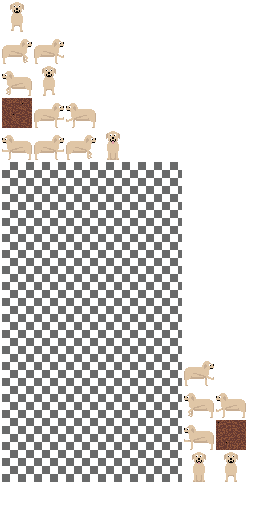
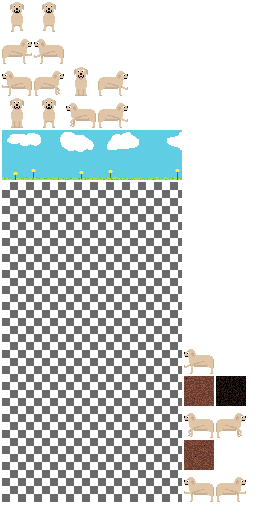
work on dig system

diff --git a/core/src/main/kotlin/io/github/rolodophone/ludumdare48/ecs/system/DigSystem.kt b/core/src/main/kotlin/io/github/rolodophone/ludumdare48/ecs/system/DigSystem.kt
@@ -1,0 +1,109 @@
+package io.github.rolodophone.ludumdare48.ecs.system
+
+import com.badlogic.ashley.core.Engine
+import com.badlogic.ashley.core.Entity
+import com.badlogic.ashley.core.EntitySystem
+import io.github.rolodophone.ludumdare48.MyTextures
+import io.github.rolodophone.ludumdare48.ecs.component.*
+import io.github.rolodophone.ludumdare48.event.GameEvent
+import io.github.rolodophone.ludumdare48.event.GameEventManager
+import io.github.rolodophone.ludumdare48.screen.TILE_WIDTH
+import io.github.rolodophone.ludumdare48.util.getNotNull
+import ktx.ashley.entity
+import ktx.ashley.with
+
+class DigSystem(private val gameEventManager: GameEventManager, private val textures: MyTextures, dog: Entity): EntitySystem() {
+	private val dogTransformComp = dog.getNotNull(TransformComponent.mapper)
+	private val dogAnimationComp = dog.getNotNull(AnimationComponent.mapper)
+	private val dogTileComp = dog.getNotNull(TileComponent.mapper)
+	private val dogComp = dog.getNotNull(DogComponent.mapper)
+
+	var gameStarted = false
+	var timeSinceStartedDigging = 0f
+
+	override fun addedToEngine(engine: Engine) {
+		val tileHighlights = MutableList(6) {
+			createTileHighlight(it, 8)
+		}
+
+		gameEventManager.listen(GameEvent.StartDigging) {
+			if (!gameStarted) {
+				dogTransformComp.rect.setPosition(
+					(dogComp.diggingX * TILE_WIDTH).toFloat(),
+					((dogComp.diggingY + 1) * TILE_WIDTH).toFloat()
+				)
+				dogTileComp.xIndex = dogComp.diggingX
+				dogTileComp.yIndex = dogComp.diggingY + 1
+			}
+
+			when (dogComp.diggingX) {
+				dogTileComp.xIndex -> { //digging down
+					dogAnimationComp.textureList = textures.dog_dig_down
+					dogAnimationComp.animIndex = 0
+					dogAnimationComp.frameDuration = 1/8f
+				}
+				dogTileComp.xIndex - 1 -> { //digging left
+					dogAnimationComp.textureList = textures.dog_dig_left
+					dogAnimationComp.animIndex = 0
+					dogAnimationComp.frameDuration = 1/12f
+				}
+				dogTileComp.xIndex + 1 -> { //digging right
+					dogAnimationComp.textureList = textures.dog_dig_right
+					dogAnimationComp.animIndex = 0
+					dogAnimationComp.frameDuration = 1/12f
+				}
+			}
+			
+			dogComp.state = DogComponent.State.DIGGING
+			timeSinceStartedDigging = 0f
+		}
+
+		gameEventManager.listen(GameEvent.FinishDigging) {
+			dogAnimationComp.textureList = textures.dog_rest
+			dogAnimationComp.animIndex = 0
+			dogAnimationComp.frameDuration = 1/4f
+
+			dogTileComp.xIndex = dogComp.diggingX
+			dogTileComp.yIndex = dogComp.diggingY
+
+
+		}
+	}
+
+	override fun update(deltaTime: Float) {
+		when (dogComp.state) {
+			DogComponent.State.DIGGING -> {
+				timeSinceStartedDigging += deltaTime
+				
+				if (timeSinceStartedDigging > dogComp.digDuration) {
+					gameEventManager.trigger(GameEvent.FinishDigging)
+				}
+			}
+			else -> {}
+		}
+	}
+
+	private fun createTileHighlight(x: Int, y: Int): Entity {
+		return engine.entity {
+			with<TransformComponent> {
+				setSizeFromTexture(textures.tile_highlight[0])
+				rect.setPosition(
+					(x * TILE_WIDTH).toFloat(),
+					(y * TILE_WIDTH).toFloat()
+				)
+				z = 10
+			}
+			with<GraphicsComponent> {
+				sprite.setRegion(textures.tile_highlight[0])
+			}
+			with<AnimationComponent> {
+				textureList = textures.tile_highlight
+				frameDuration = 1f
+			}
+			with<TileComponent> {
+				xIndex = x
+				yIndex = y
+			}
+		}
+	}
+}

diff --git a/core/src/main/kotlin/io/github/rolodophone/ludumdare48/screen/GameScreen.kt b/core/src/main/kotlin/io/github/rolodophone/ludumdare48/screen/GameScreen.kt
@@ -2,14 +2,8 @@ package io.github.rolodophone.ludumdare48.screen
 
 import com.badlogic.gdx.math.Vector2
 import io.github.rolodophone.ludumdare48.MyGame
-import io.github.rolodophone.ludumdare48.ecs.component.AnimationComponent
-import io.github.rolodophone.ludumdare48.ecs.component.GraphicsComponent
-import io.github.rolodophone.ludumdare48.ecs.component.TileComponent
-import io.github.rolodophone.ludumdare48.ecs.component.TransformComponent
-import io.github.rolodophone.ludumdare48.ecs.system.AnimationSystem
-import io.github.rolodophone.ludumdare48.ecs.system.DebugSystem
-import io.github.rolodophone.ludumdare48.ecs.system.PlayerInputSystem
-import io.github.rolodophone.ludumdare48.ecs.system.RenderSystem
+import io.github.rolodophone.ludumdare48.ecs.component.*
+import io.github.rolodophone.ludumdare48.ecs.system.*
 import io.github.rolodophone.ludumdare48.event.GameEventManager
 import ktx.ashley.entity
 import ktx.ashley.with
@@ -22,11 +16,23 @@ private const val MAX_DELTA_TIME = 1/10f
 private const val NUM_COLUMNS = 6
 private const val NUM_ROWS = 9
 
+const val TILE_WIDTH = 30
+
 class GameScreen(game: MyGame): MyScreen(game) {
 	private val gameEventManager = GameEventManager()
 
 	@Suppress("UNUSED_VARIABLE")
 	override fun show() {
+		engine.entity {
+			with<TransformComponent> {
+				setSizeFromTexture(textures.background)
+				rect.setPosition(0f, gameViewport.worldHeight - textures.background.regionHeight)
+			}
+			with<GraphicsComponent> {
+				sprite.setRegion(textures.background)
+			}
+		}
+
 		for (y in 0 until NUM_ROWS) {
 			for (x in 0 until NUM_COLUMNS) {
 				
@@ -36,8 +42,8 @@ class GameScreen(game: MyGame): MyScreen(game) {
 					with<TransformComponent> {
 						setSizeFromTexture(thisTexture)
 						rect.setPosition(
-							(x * thisTexture.regionWidth).toFloat(), 
-							(y * thisTexture.regionHeight).toFloat()
+							(x * TILE_WIDTH).toFloat(),
+							(y * TILE_WIDTH).toFloat()
 						)
 					}
 					with<GraphicsComponent> {
@@ -57,7 +63,7 @@ class GameScreen(game: MyGame): MyScreen(game) {
 		val dog = engine.entity {
 			with<TransformComponent> {
 				setSizeFromTexture(textures.dog_rest[0])
-				rect.setPosition(2f * textures.block_dirt[0].regionWidth, 9f * textures.block_dirt[0].regionHeight)
+				rect.setPosition(2f * TILE_WIDTH, 9f * TILE_WIDTH)
 			}
 			with<GraphicsComponent> {
 				sprite.setRegion(textures.dog_rest[0])
@@ -68,14 +74,16 @@ class GameScreen(game: MyGame): MyScreen(game) {
 			}
 			with<AnimationComponent> {
 				textureList = textures.dog_rest
-				frameDuration = 0.25f
+				frameDuration = 1/4f
 			}
+			with<DogComponent>()
 		}
 
 		engine.run {
 			addSystem(PlayerInputSystem(gameViewport, gameEventManager))
 			addSystem(AnimationSystem())
 			addSystem(RenderSystem(batch, gameViewport))
+			addSystem(DigSystem(gameEventManager, textures, dog))
 			addSystem(DebugSystem(gameEventManager, gameViewport, textures))
 		}
 	}

diff --git a/core/src/main/kotlin/io/github/rolodophone/ludumdare48/MyTextures.kt b/core/src/main/kotlin/io/github/rolodophone/ludumdare48/MyTextures.kt
@@ -9,11 +9,14 @@ class MyTextures: Disposable {
 	private val graphicsAtlas = TextureAtlas(Gdx.files.internal("graphics/graphics.atlas"))
 
 	val grid8 = graphicsAtlas.findRegion("grid8")!!
-	val block_dirt = List(2) { graphicsAtlas.findRegion("block_dirt$it") }
-	val dog_dig_down = List(4) { graphicsAtlas.findRegion("dog_dig_down$it") }
-	val dog_dig_left = List(6) { graphicsAtlas.findRegion("dog_dig_left$it") }
-	val dog_dig_right = List(6) { graphicsAtlas.findRegion("dog_dig_right$it") }
-	val dog_rest = List(2) { graphicsAtlas.findRegion("dog_rest$it") }
+	val background = graphicsAtlas.findRegion("background")!!
+	val block_background = graphicsAtlas.findRegion("block_background")!!
+	val block_dirt = List(2) { graphicsAtlas.findRegion("block_dirt$it")!! }
+	val dog_dig_down = List(4) { graphicsAtlas.findRegion("dog_dig_down$it")!! }
+	val dog_dig_left = List(6) { graphicsAtlas.findRegion("dog_dig_left$it")!! }
+	val dog_dig_right = List(6) { graphicsAtlas.findRegion("dog_dig_right$it")!! }
+	val dog_rest = List(2) { graphicsAtlas.findRegion("dog_rest$it")!! }
+	val tile_highlight = List(2) { graphicsAtlas.findRegion("tile_highlight$it")!! }
 
 	override fun dispose() {
 		graphicsAtlas.dispose()

diff --git a/core/src/main/kotlin/io/github/rolodophone/ludumdare48/ecs/component/DogComponent.kt b/core/src/main/kotlin/io/github/rolodophone/ludumdare48/ecs/component/DogComponent.kt
@@ -1,0 +1,27 @@
+package io.github.rolodophone.ludumdare48.ecs.component
+
+import com.badlogic.ashley.core.Component
+import com.badlogic.gdx.utils.Pool
+import ktx.ashley.mapperFor
+
+class DogComponent: Component, Pool.Poolable {
+	companion object {
+		val mapper = mapperFor<DogComponent>()
+	}
+
+	enum class State {
+		RESTING, DIGGING, HURT
+	}
+
+	var state = State.RESTING
+	var digDuration = 3f
+	var diggingX = 0
+	var diggingY = 0
+
+	override fun reset() {
+		state = State.RESTING
+		var digDuration = 3f
+		var diggingX = 0
+		var diggingY = 0
+	}
+}

diff --git a/core/src/main/kotlin/io/github/rolodophone/ludumdare48/event/GameEvent.kt b/core/src/main/kotlin/io/github/rolodophone/ludumdare48/event/GameEvent.kt
@@ -1,10 +1,7 @@
 package io.github.rolodophone.ludumdare48.event
 
 sealed class GameEvent {
-	object StartAiming: GameEvent()
-	object ShootBall: GameEvent()
-	object AdjustAimAngle: GameEvent() {
-		var newAngle = 0f
-	}
-	object CatchBall: GameEvent()
+	object StartDigging: GameEvent()
+	object DogHurt: GameEvent()
+	object FinishDigging: GameEvent()
 }
